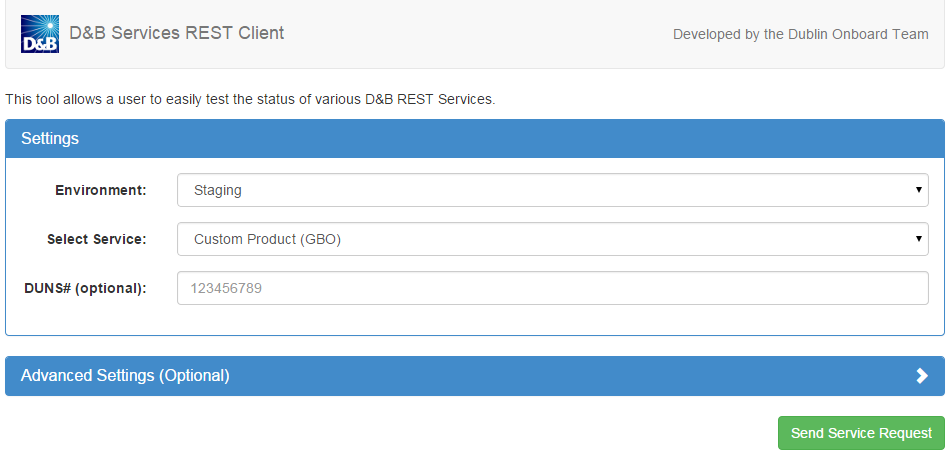
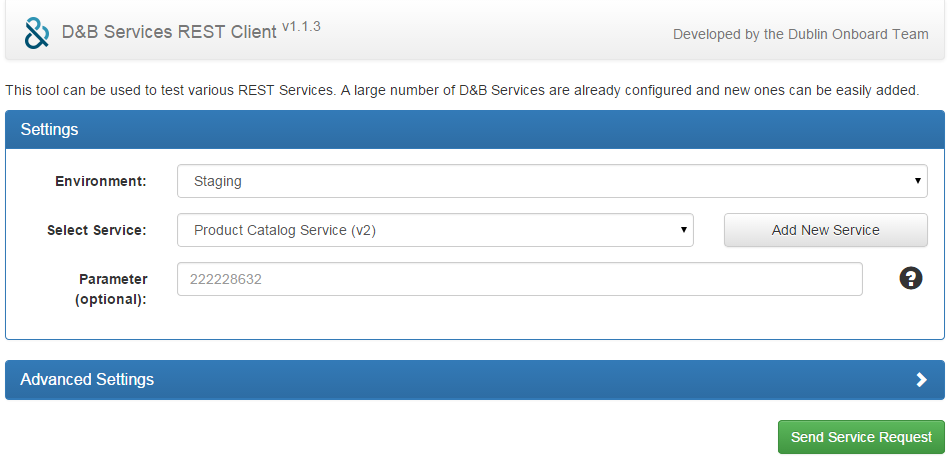
Update readme and various info text

diff --git a/index.html b/index.html
@@ -4,7 +4,7 @@
 	<meta charset="utf-8">
 	<title>D&amp;B Services REST Client</title>
 	<meta name="viewport" content="width=device-width, initial-scale=1.0">
-	<meta name="description" content="This tool allows a user to easily test the status of various D&amp;B REST Services.">
+	<meta name="description" content="This tool can be used to test various REST Services. A large number of D&amp;B Services are already configured and new ones can be easily added.">
 	<meta name="author" content="Paul Hitz">
 
 	<link href="css/bootstrap.min.css" rel="stylesheet">
@@ -29,7 +29,7 @@
 		</div>
 	</header>
 
-	<p>This tool allows a user to easily test the status of various D&amp;B REST Services.</p>
+	<p>This tool can be used to test various REST Services. A large number of D&amp;B Services are already configured and new ones can be easily added.</p>
 
 	<article class="row clearfix">
 		<form class="col-md-12 column">
@@ -62,7 +62,7 @@
 								<div class="col-md-11">
 									<input type="text" class="form-control" id="parameter" placeholder="{{placeholder}}" value="" data-ng-model="parameter">
 								</div>
-								<span class="glyphicon glyphicon-question-sign help col-md-1" aria-hidden="true" data-tooltip="An optional parameter to send with the Service. E.g. a DUNS# or a Search Term. {{placeholder}} is used by default."></span>
+								<span class="glyphicon glyphicon-question-sign help col-md-1" aria-hidden="true" data-tooltip="An optional parameter to send with the service request. E.g. a DUNS# or a Search Term. {{placeholder}} is used by default."></span>
 							</div>
 						</div>
 					</div>

diff --git a/README.md b/README.md
@@ -1,14 +1,15 @@
 D&B Services REST Client
 ========================
 
-This tool allows various D&B REST Services to be tested.
+This tool is useful for testing REST Services. Out of the box, various D&B services are already configured. However, it's trivial to add new services.
 
-Either the QA, STG or Production environment can be used and automatic authentication will take place.
+Both D&B and external services are supported. For D&B services, either the QA, STG or Production environment can be used and automatic authentication will take place.
 
 The response from the service will be displayed along with any headers in the request/response.
 
 The complete request URL is provided so it can easily be copied and pasted.
 
+Your credentials are saved against the selected environment.
 
 
 **Installation**
@@ -23,9 +24,9 @@ Requests use GET by default. POST/PUT requests should specify a payload.
 Some services require a JSON payload. E.g. ListPortfolio
 
 
-**Developer Notes**
+**Tech**
 
-New Services can be added by modifying data.js
+This is a AngularJS application packaged as a Chrome extension to avoid CORS (Cross-Origin Resource Sharing) issues.
 
 
 **Screenshot**
